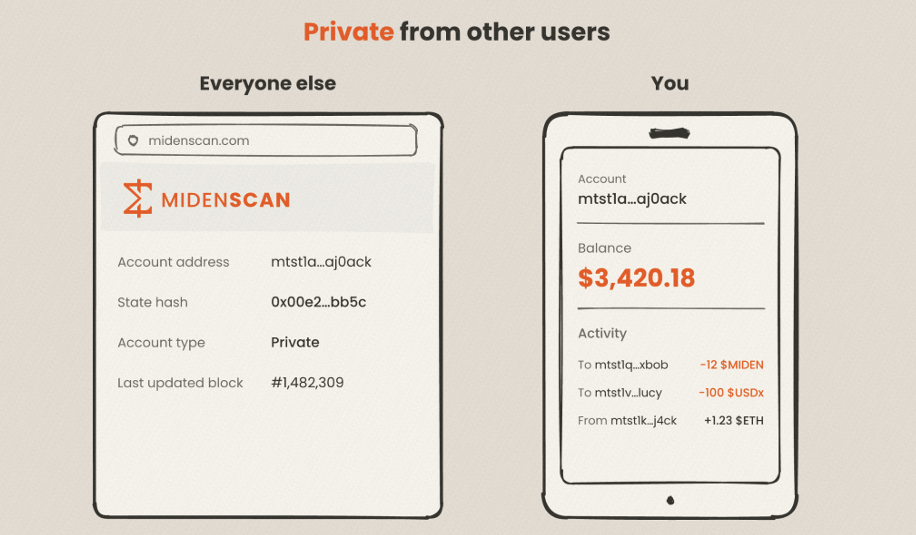
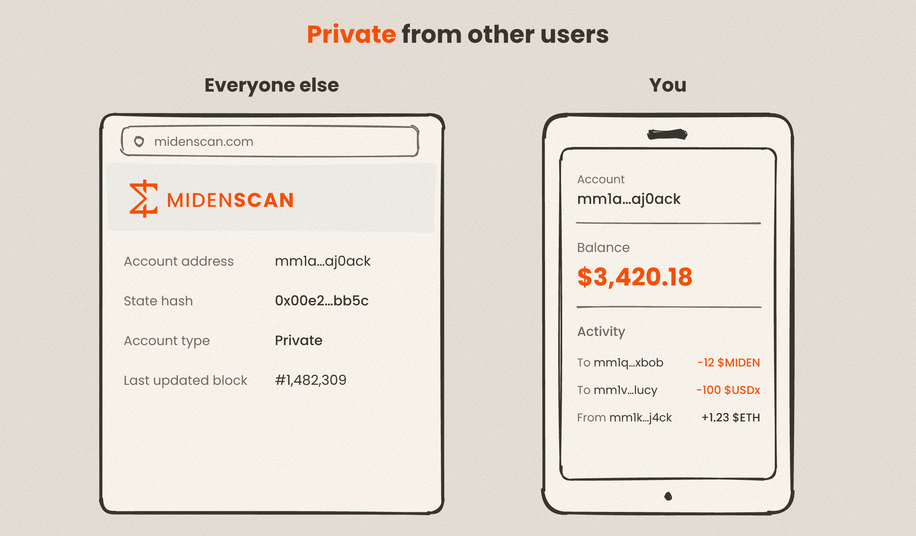
content: privacy diagram shows mainnet addresses
The Private from other users diagram in article 32 showed testnet addresses
(mtst1a...aj0ack, mtst1q...xbob, mtst1v...lucy, mtst1k...j4ck). The updated
diagram reads the mainnet form (mm1a...aj0ack, mm1q...xbob, mm1v...lucy,
mm1k...j4ck). Nothing else in the drawing changes.

  bread-private-from-other-users.png  2400 x 1404  sha256 065c4e1999845751376136a775ae641eeb4c71996cdaa317e74d722f617fa207

Scaled to the 916px width content.ts already records, with Pillow LANCZOS.
The new source is 2 px taller relative to its width, so the height rounds to
536 instead of 535 and the table follows rather than stretching the image.
tasks/faq/faq-images/ holds the 916 version as the record; the shipped copy
is oxipng 10.2.1 (-o max, zopfli), pixel-identical.

  private-from-other-users.png  388,916 -> 354,925

No article text changes.

diff --git a/src/help-center/content.ts b/src/help-center/content.ts
@@ -134,7 +134,7 @@ const ARTICLE_IMAGE_SIZES: Readonly<Record<string, readonly [number, number]>> =
   'across-chains-two-routes.png': [1024, 444],
   'earn-across-the-privacy-line.png': [1024, 393],
   'guardian-backed-or-more-private.png': [1024, 434],
-  'private-from-other-users.png': [916, 535],
+  'private-from-other-users.png': [916, 536],
   'three-keys-always-in-control.png': [1026, 396]
 };
 
